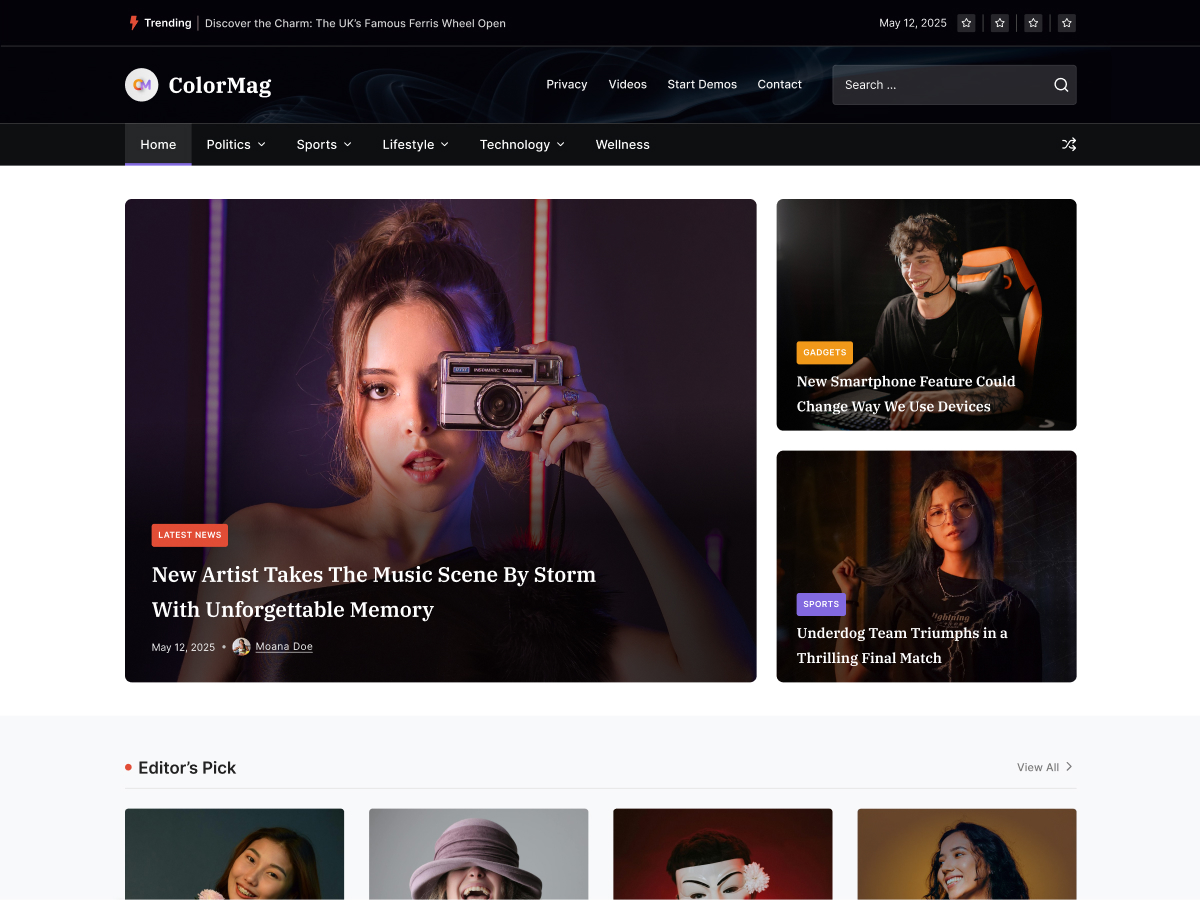
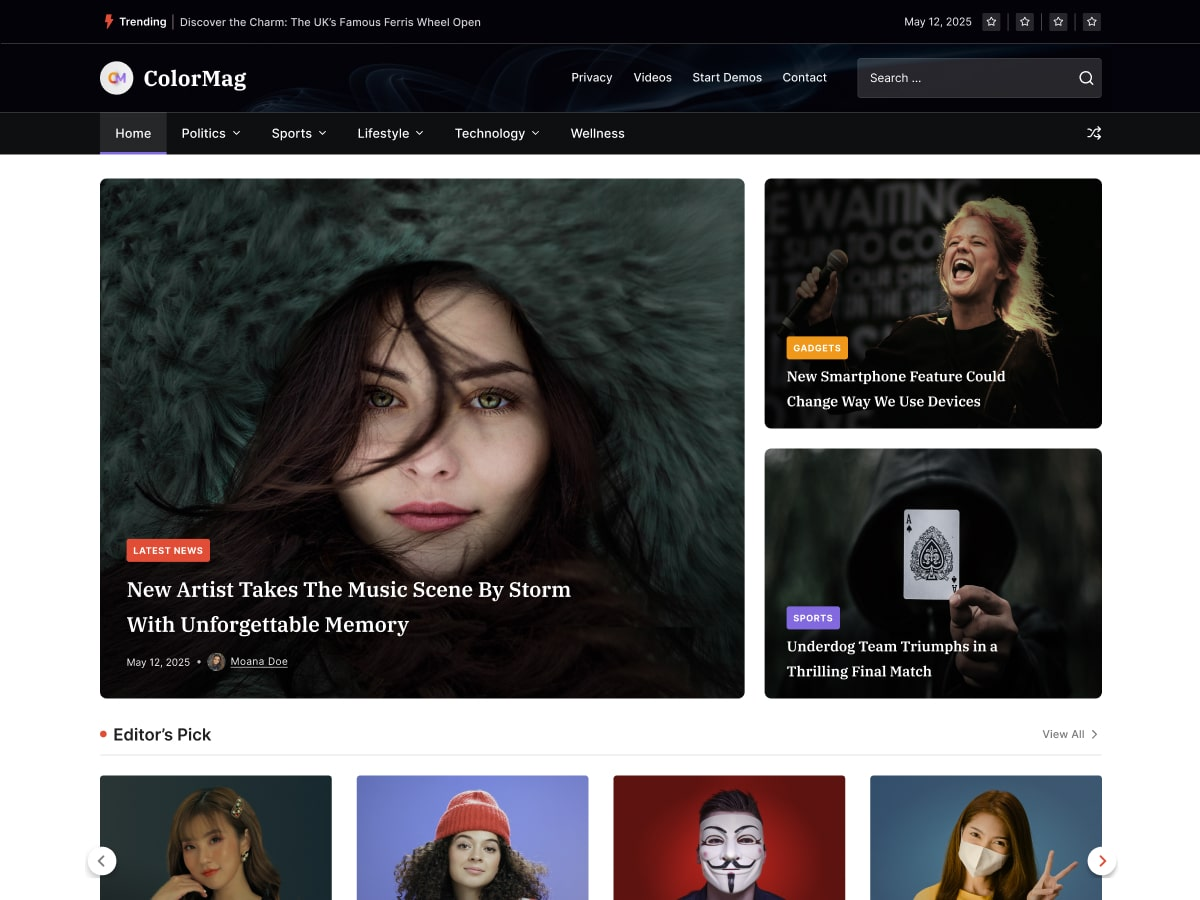
home.php update

diff --git a/inc/compatibility/starter-content/home.php b/inc/compatibility/starter-content/home.php
@@ -485,8 +485,8 @@ return [
 <p class="has-text-color has-link-color has-inter-font-family" style="color:#4e4e4e;margin-top:0;margin-right:0;margin-bottom:0;margin-left:0;font-size:13px;font-style:normal;font-weight:400;line-height:1.7">Lorem ipsum dolor sit amet, consectetur adipiscing elit, sed do dolore magna aliqua.</p>
 <!-- /wp:paragraph -->
 
-<!-- wp:group {"className":"cm-politics-2","layout":{"type":"constrained"}} -->
-<div class="wp-block-group cm-politics-2"><!-- wp:columns {"className":"cm-trending-1","style":{"spacing":{"blockGap":"12px"}}} -->
+<!-- wp:group {"className":"cm-politics-2","style":{"spacing":{"blockGap":"12px","margin":{"top":"12px","bottom":"0"}}},"layout":{"type":"constrained"}} -->
+<div class="wp-block-group cm-politics-2" style="margin-top:12px;margin-bottom:0"><!-- wp:columns {"className":"cm-trending-1","style":{"spacing":{"blockGap":"12px"}}} -->
 <div class="wp-block-columns cm-trending-1"><!-- wp:column {"verticalAlignment":"center","width":"33.33%"} -->
 <div class="wp-block-column is-vertically-aligned-center" style="flex-basis:33.33%"><!-- wp:image {"id":76,"sizeSlug":"full","linkDestination":"none","style":{"border":{"radius":"4px"}}} -->
 <figure class="wp-block-image size-full has-custom-border"><img src="' . trailingslashit( get_template_directory_uri() ) . 'assets/img/starter/wellness-img-4.jpg" alt="" class="wp-image-76" style="border-radius:4px"/></figure>
@@ -582,7 +582,7 @@ return [
 <div class="wp-block-column" style="padding-top:0px;padding-right:0px;padding-bottom:0px;padding-left:0px;flex-basis:32%"><!-- wp:columns {"className":"cm-video-col-2","style":{"spacing":{"blockGap":{"top":"0px","left":"16px"}}}} -->
 <div class="wp-block-columns cm-video-col-2"><!-- wp:column {"width":"33.33%","layout":{"type":"default"}} -->
 <div class="wp-block-column" style="flex-basis:33.33%"><!-- wp:image {"id":78,"sizeSlug":"full","linkDestination":"none","align":"full","style":{"border":{"radius":"4px"},"spacing":{"margin":{"right":"0px","left":"0px"}}}} -->
-<figure class="wp-block-image alignfull size-full has-custom-border" style="margin-right:0px;margin-left:0px"><img src="' . trailingslashit( get_template_directory_uri() ) . 'assets/img/starter/video-img-2.jpg" alt="" class="wp-image-78" style="border-radius:4px"/></figure>
+<figure class="wp-block-image alignfull size-full has-custom-border" style="margin-right:0px;margin-left:0px"><img src="' . trailingslashit( get_template_directory_uri() ) . 'assets/img/starter/videos-img-2.jpg" alt="" class="wp-image-78" style="border-radius:4px"/></figure>
 <!-- /wp:image --></div>
 <!-- /wp:column -->
 
@@ -610,7 +610,7 @@ return [
 <!-- wp:columns {"className":"cm-video-col-2","style":{"spacing":{"blockGap":{"left":"16px"}}}} -->
 <div class="wp-block-columns cm-video-col-2"><!-- wp:column {"verticalAlignment":"center","width":"33.33%","layout":{"type":"constrained"}} -->
 <div class="wp-block-column is-vertically-aligned-center" style="flex-basis:33.33%"><!-- wp:image {"id":79,"sizeSlug":"full","linkDestination":"none","align":"full","style":{"border":{"radius":"4px"}}} -->
-<figure class="wp-block-image alignfull size-full has-custom-border"><img src="' . trailingslashit( get_template_directory_uri() ) . 'assets/img/starter/video-img-3.jpg" alt="" class="wp-image-79" style="border-radius:4px"/></figure>
+<figure class="wp-block-image alignfull size-full has-custom-border"><img src="' . trailingslashit( get_template_directory_uri() ) . 'assets/img/starter/videos-img-3.jpg" alt="" class="wp-image-79" style="border-radius:4px"/></figure>
 <!-- /wp:image --></div>
 <!-- /wp:column -->
 
@@ -638,7 +638,7 @@ return [
 <!-- wp:columns {"verticalAlignment":"center","className":"cm-video-col-2","style":{"spacing":{"blockGap":{"left":"16px"}}}} -->
 <div class="wp-block-columns are-vertically-aligned-center cm-video-col-2"><!-- wp:column {"verticalAlignment":"center","width":"33.33%"} -->
 <div class="wp-block-column is-vertically-aligned-center" style="flex-basis:33.33%"><!-- wp:image {"id":80,"sizeSlug":"full","linkDestination":"none","align":"full","style":{"border":{"radius":"4px"}}} -->
-<figure class="wp-block-image alignfull size-full has-custom-border"><img src="' . trailingslashit( get_template_directory_uri() ) . 'assets/img/starter/video-img-4.jpg" alt="" class="wp-image-80" style="border-radius:4px"/></figure>
+<figure class="wp-block-image alignfull size-full has-custom-border"><img src="' . trailingslashit( get_template_directory_uri() ) . 'assets/img/starter/videos-img-4.jpg" alt="" class="wp-image-80" style="border-radius:4px"/></figure>
 <!-- /wp:image --></div>
 <!-- /wp:column -->
 
@@ -666,7 +666,7 @@ return [
 <!-- wp:columns {"className":"cm-video-col-2","style":{"spacing":{"blockGap":{"left":"16px"}}}} -->
 <div class="wp-block-columns cm-video-col-2"><!-- wp:column {"width":"33.33%"} -->
 <div class="wp-block-column" style="flex-basis:33.33%"><!-- wp:image {"id":81,"sizeSlug":"full","linkDestination":"none","align":"full","style":{"border":{"radius":"4px"}}} -->
-<figure class="wp-block-image alignfull size-full has-custom-border"><img src="' . trailingslashit( get_template_directory_uri() ) . 'assets/img/starter/video-img-5.jpg" alt="" class="wp-image-81" style="border-radius:4px"/></figure>
+<figure class="wp-block-image alignfull size-full has-custom-border"><img src="' . trailingslashit( get_template_directory_uri() ) . 'assets/img/starter/videos-img-5.jpg" alt="" class="wp-image-81" style="border-radius:4px"/></figure>
 <!-- /wp:image --></div>
 <!-- /wp:column -->
 
@@ -694,7 +694,7 @@ return [
 <!-- wp:columns {"className":"cm-video-col-2","style":{"spacing":{"blockGap":{"left":"16px"}}}} -->
 <div class="wp-block-columns cm-video-col-2"><!-- wp:column {"verticalAlignment":"center","width":"33.33%","layout":{"type":"constrained"}} -->
 <div class="wp-block-column is-vertically-aligned-center" style="flex-basis:33.33%"><!-- wp:image {"id":79,"sizeSlug":"full","linkDestination":"none","align":"full","style":{"border":{"radius":"4px"}}} -->
-<figure class="wp-block-image alignfull size-full has-custom-border"><img src="' . trailingslashit( get_template_directory_uri() ) . 'assets/img/starter/video-img-2.jpg" alt="" class="wp-image-79" style="border-radius:4px"/></figure>
+<figure class="wp-block-image alignfull size-full has-custom-border"><img src="' . trailingslashit( get_template_directory_uri() ) . 'assets/img/starter/videos-img-2.jpg" alt="" class="wp-image-79" style="border-radius:4px"/></figure>
 <!-- /wp:image --></div>
 <!-- /wp:column -->
 
@@ -911,11 +911,15 @@ return [
 <!-- /wp:group -->
 
 <!-- wp:paragraph {"style":{"typography":{"fontSize":"14px","fontStyle":"normal","fontWeight":"400","lineHeight":"1.8"},"spacing":{"margin":{"top":"0","bottom":"0"}}},"fontFamily":"inter"} -->
-<p class="has-inter-font-family" style="margin-top:0;margin-bottom:0;font-size:14px;font-style:normal;font-weight:400;line-height:1.8">Lorem ipsum dolor sit amet, consectetur adipiscing elit, sed do eiusmod tempor incididunt ut labore et.</p>
+<p class="has-inter-font-family" style="margin-top:0;margin-bottom:0;font-size:14px;font-style:normal;font-weight:400;line-height:1.8">Lorem ipsum dolor sit amet, consectetur adipiscing elit, sed do eiusmod tempor incididunt ut labore et Lorem ipsum dolor sit amet, consectetur adipiscing elit</p>
+<!-- /wp:paragraph -->
+
+<!-- wp:paragraph {"style":{"typography":{"textDecoration":"underline"}}} -->
+<p style="text-decoration:underline">Read More</p>
 <!-- /wp:paragraph --></div>
 <!-- /wp:column -->
 
-<!-- wp:column {"className":"cm-diet-health"} -->
+<!-- wp:column {"width":"","className":"cm-diet-health"} -->
 <div class="wp-block-column cm-diet-health"><!-- wp:columns {"verticalAlignment":"center","isStackedOnMobile":false,"style":{"spacing":{"blockGap":{"left":"16px"}}}} -->
 <div class="wp-block-columns are-vertically-aligned-center is-not-stacked-on-mobile"><!-- wp:column {"verticalAlignment":"center","width":"33.33%"} -->
 <div class="wp-block-column is-vertically-aligned-center" style="flex-basis:33.33%"><!-- wp:image {"id":27,"sizeSlug":"full","linkDestination":"none","align":"full","style":{"border":{"radius":"4px"}}} -->
@@ -1421,8 +1425,8 @@ return [
 
 <!-- wp:group {"align":"wide","layout":{"type":"constrained"}} -->
 <div class="wp-block-group alignwide"><!-- wp:columns {"align":"wide"} -->
-<div class="wp-block-columns alignwide"><!-- wp:column {"width":"50%","style":{"spacing":{"blockGap":"8px"}}} -->
-<div class="wp-block-column" style="flex-basis:50%"><!-- wp:image {"id":83,"sizeSlug":"full","linkDestination":"none","align":"full","style":{"border":{"radius":"4px"}}} -->
+<div class="wp-block-columns alignwide"><!-- wp:column {"width":"47%","style":{"spacing":{"blockGap":"8px"}}} -->
+<div class="wp-block-column" style="flex-basis:47%"><!-- wp:image {"id":83,"sizeSlug":"full","linkDestination":"none","align":"full","style":{"border":{"radius":"4px"}}} -->
 <figure class="wp-block-image alignfull size-full has-custom-border"><img src="' . trailingslashit( get_template_directory_uri() ) . 'assets/img/starter/wellness-img-1.jpg" alt="" class="wp-image-83" style="border-radius:4px"/></figure>
 <!-- /wp:image -->
 
@@ -1447,12 +1451,12 @@ return [
 <!-- /wp:group -->
 
 <!-- wp:paragraph {"style":{"typography":{"fontSize":"14px","fontStyle":"normal","fontWeight":"400"},"spacing":{"margin":{"top":"0","bottom":"0"}}},"fontFamily":"inter"} -->
-<p class="has-inter-font-family" style="margin-top:0;margin-bottom:0;font-size:14px;font-style:normal;font-weight:400">Forem ipsum dolor sit amet, consectetur adipiscing elit. Nunc vulputate libero et velit interdum aliquet odio mattis. Class aptent taciti sociosquad. et velit interdum, ac aliquet odio mattis.</p>
+<p class="has-inter-font-family" style="margin-top:0;margin-bottom:0;font-size:14px;font-style:normal;font-weight:400">Forem ipsum dolor sit amet, consectetur adipiscing elit. Nunc vulputate libero et velit interdum aliquet odio mattis. </p>
 <!-- /wp:paragraph --></div>
 <!-- /wp:column -->
 
-<!-- wp:column {"width":"50%"} -->
-<div class="wp-block-column" style="flex-basis:50%"><!-- wp:columns {"className":"cm-col-2"} -->
+<!-- wp:column {"width":"53%"} -->
+<div class="wp-block-column" style="flex-basis:53%"><!-- wp:columns {"className":"cm-col-2"} -->
 <div class="wp-block-columns cm-col-2"><!-- wp:column {"style":{"spacing":{"blockGap":"8px"}}} -->
 <div class="wp-block-column"><!-- wp:image {"id":84,"sizeSlug":"full","linkDestination":"none","align":"full","style":{"border":{"radius":"4px"}}} -->
 <figure class="wp-block-image alignfull size-full has-custom-border"><img src="' . trailingslashit( get_template_directory_uri() ) . 'assets/img/starter/wellness-img-2.jpg" alt="" class="wp-image-84" style="border-radius:4px"/></figure>
@@ -1616,9 +1620,9 @@ margin-top: 10px; background-color: transparent; border: 1px solid #333;">
 <!-- /wp:column -->
 
 <!-- wp:column {"width":"60%"} -->
-<div class="wp-block-column" style="flex-basis:60%"><!-- wp:columns -->
-<div class="wp-block-columns"><!-- wp:column {"verticalAlignment":"center"} -->
-<div class="wp-block-column is-vertically-aligned-center"><!-- wp:heading {"level":5,"className":"cm-footer-border-line","style":{"typography":{"fontSize":"20px"},"elements":{"link":{"color":{"text":"var:preset|color|white"}}},"border":{"bottom":{"color":"#dfdfdf","style":"solid","width":"1px"},"top":[],"right":[],"left":[]},"spacing":{"padding":{"bottom":"12px"}},"color":{"text":"#222222"}},"textColor":"white","fontFamily":"ibm-plex-serif"} -->
+<div class="wp-block-column" style="flex-basis:60%"><!-- wp:columns {"verticalAlignment":null} -->
+<div class="wp-block-columns"><!-- wp:column {"verticalAlignment":"top"} -->
+<div class="wp-block-column is-vertically-aligned-top"><!-- wp:heading {"level":5,"className":"cm-footer-border-line","style":{"typography":{"fontSize":"20px"},"elements":{"link":{"color":{"text":"var:preset|color|white"}}},"border":{"bottom":{"color":"#dfdfdf","style":"solid","width":"1px"},"top":[],"right":[],"left":[]},"spacing":{"padding":{"bottom":"12px"}},"color":{"text":"#222222"}},"textColor":"white","fontFamily":"ibm-plex-serif"} -->
 <h5 class="wp-block-heading cm-footer-border-line has-white-color has-text-color has-link-color has-ibm-plex-serif-font-family" style="border-bottom-color:#dfdfdf;border-bottom-style:solid;border-bottom-width:1px;color:#222222;padding-bottom:12px;font-size:20px">Editor’s Pick</h5>
 <!-- /wp:heading -->
 
